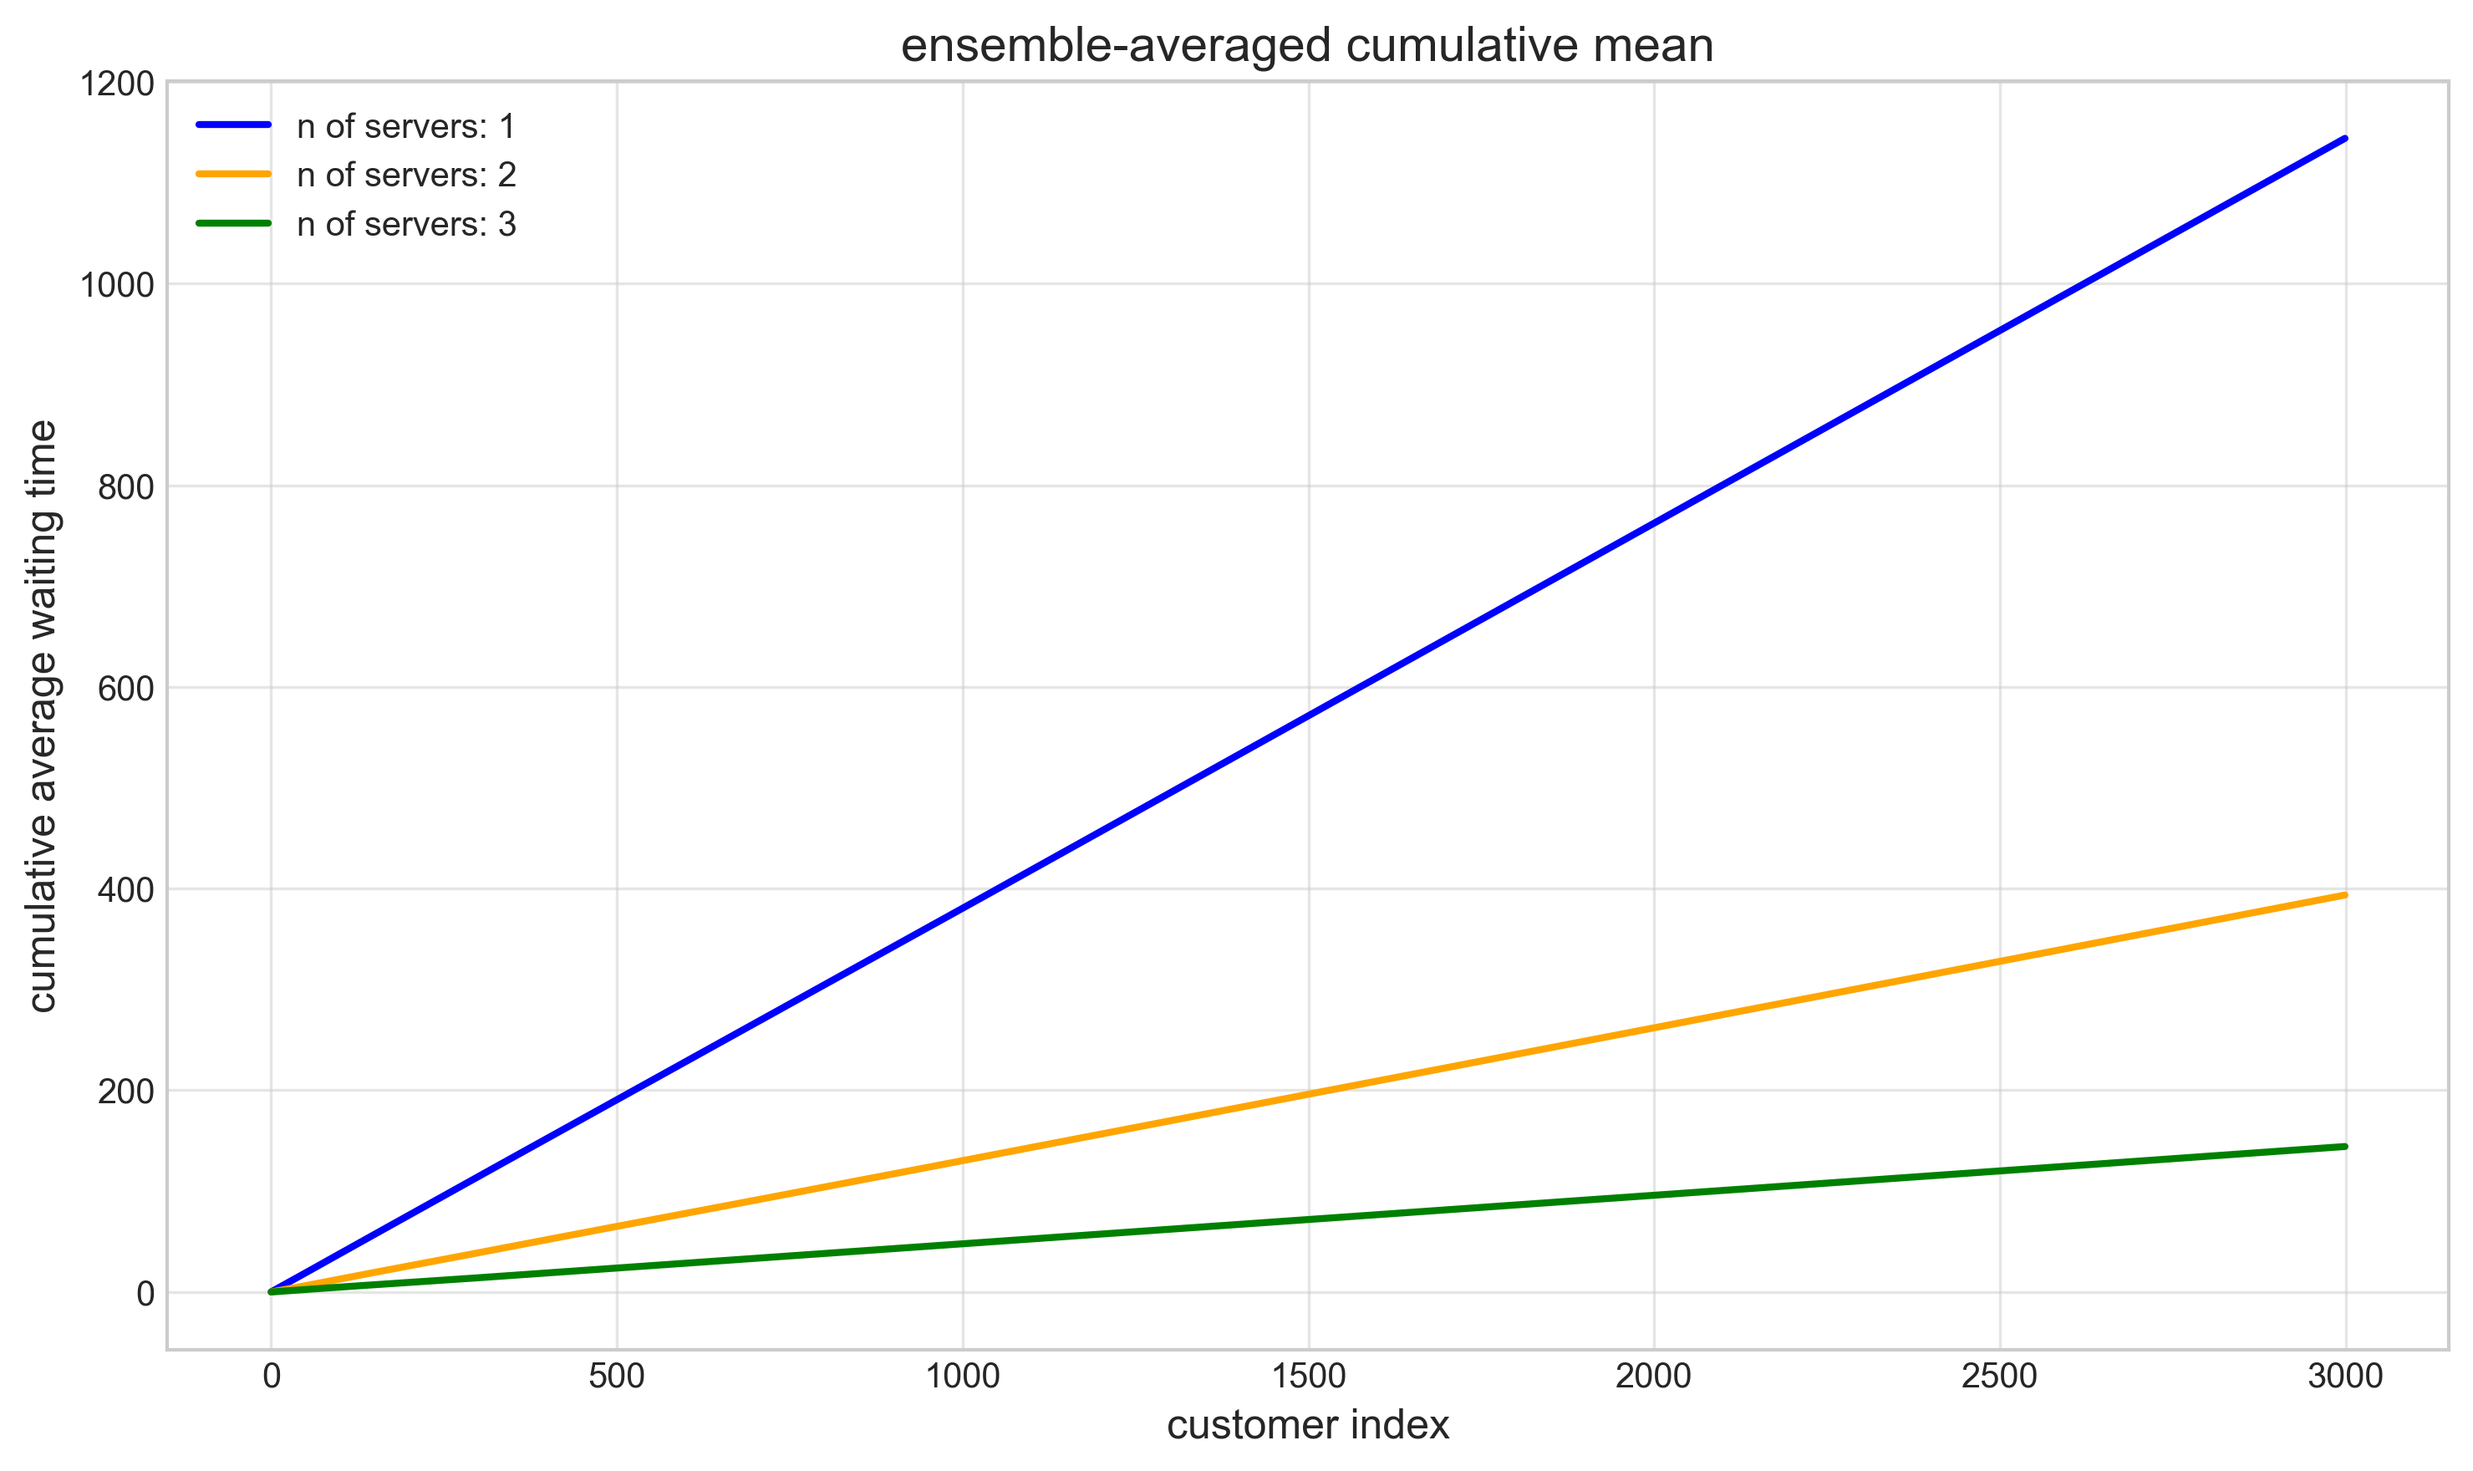
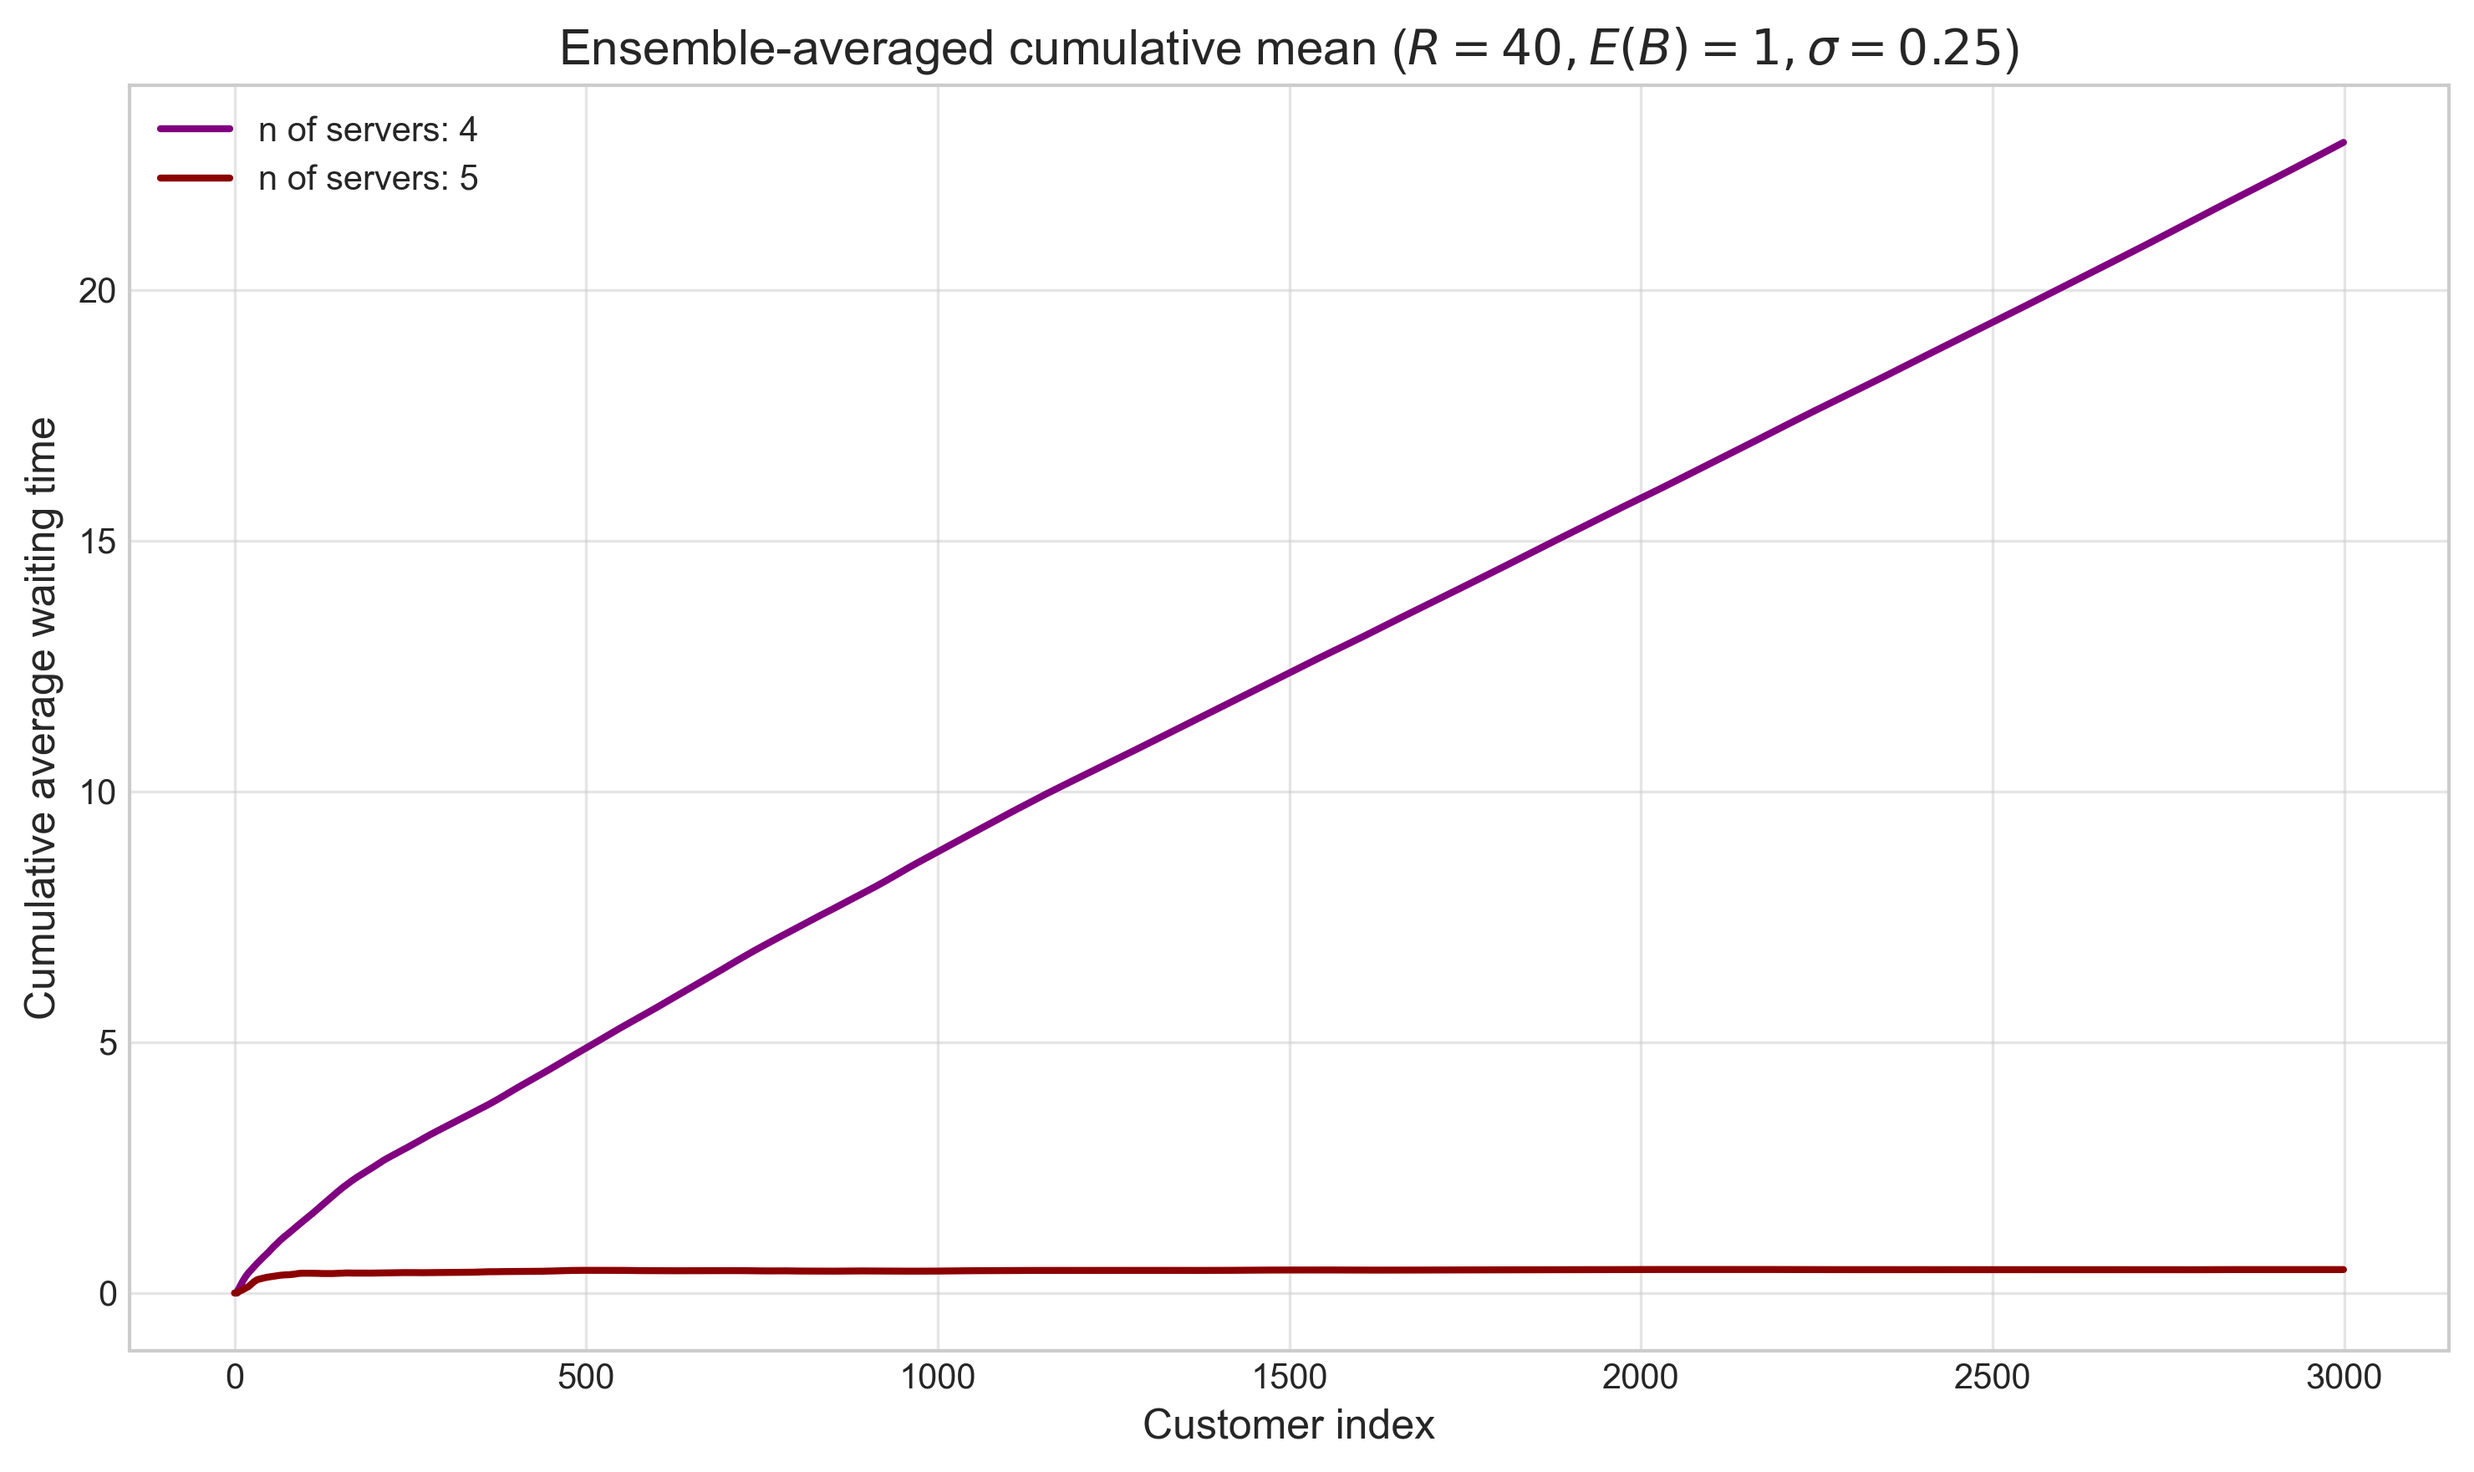
small changes to plots

diff --git a/assignment_2/main.py b/assignment_2/main.py
@@ -549,6 +549,7 @@ def plot3D_std_mean_sweep(
                 st_mean=mu,
                 verbose=False,
                 n_customers=n_customers,
+                n_customers=n_customers,
                 num_servers=num_servers,
                 num_replications=num_replications,
                 warm_up=0,
@@ -559,8 +560,8 @@ def plot3D_std_mean_sweep(
     ax = fig.add_subplot(111, projection="3d")
     X, Y = np.meshgrid(mu_range, std_range)
     surf = ax.plot_surface(
-        Y,
         X,
+        Y,
         mean_wt_matrix,
         cmap="viridis",
         edgecolor="k",
@@ -656,10 +657,10 @@ def run_Q2A(df):
     print("------------Q2A  RESULTS------------")
     print(f"Mean passengers passed: {np.mean(passengers_passed):.0f}")
     print(
-        f"Mean waiting time: {mean_waiting_time:.2f} minutes,\n"
-        f"Standard deviation: {std_waiting_time:.2f} minutes"
+        f"Mean waiting time: {mean_waiting_time:.3f} minutes,\n"
+        f"Standard deviation: {std_waiting_time:.3f} minutes"
     )
-    print(f"Theoretical steady-state: {theoretical_wt:.3f}")
+    print(f"Theoretical steady-state: {theoretical_wt:.3f} minutes")
     print(
         "Not reject H0:",
         two_sides_test(
@@ -914,7 +915,6 @@ def plot_hourly_arrivals():
             f"{height:.1f}",  # text
             ha="center",
             va="center",
-            color="darkblue",
             fontsize=6,
             alpha=0.6,
         )
@@ -957,9 +957,13 @@ def plot_hourly_arrivals():
         ]
     )
     axs.tick_params(axis="x", rotation=45, labelsize=8)
+    axs.grid(False)
+    axs2.grid(False)
+    axs3.grid(False)
 
     plt.suptitle("Hourly Arrival Rate and Mean Waiting Time (2 Servers)")
     plt.tight_layout(pad=1.2)
+
     plt.savefig(
         "assignment_2/img/arrival_rate_vs_waiting_time.png",
         dpi=300,
@@ -1015,9 +1019,11 @@ def plot_nservers_cumavg(
     if warm_up:
         plt.axvline(x=warm_up, color="red", label="warm up", ls="--")
 
-    plt.xlabel("customer index")
-    plt.ylabel("cumulative average waiting time")
-    plt.title("ensemble-averaged cumulative mean")
+    plt.xlabel("Customer index")
+    plt.ylabel("Cumulative average waiting time")
+    plt.title(
+        rf"Ensemble-averaged cumulative mean ($R={num_replications}, E(B)=1, \sigma={st_std:.2f}$)"
+    )
     plt.grid(alpha=0.5)
     plt.tight_layout(pad=1.2)
     plt.legend()
@@ -1034,7 +1040,7 @@ def plot_nservers_cumavg(
 def save_warm_up(path: str, arrival_rate: float):
 
     warm_ups = range(0, 1001, 100)
-    R = 40
+    R = 1000
 
     stats_collector = []
     for warm_up in warm_ups:
@@ -1054,10 +1060,10 @@ def main():
     Q1 = True
     Q2A = False
     WARM_UP_SWEEP = False
-    Q2B = True
+    Q2B = False
     HOURLY_ARRIVALS = False
     PLOT_STD_SWEEP = False
-    PLOT_3D_MEAN_STD_SWEEP = False
+    PLOT_3D_MEAN_STD_SWEEP = True
 
     if Q1:
         print(
@@ -1074,7 +1080,7 @@ def main():
         run_2D_std_sweep(df)
 
     if WARM_UP_SWEEP:
-        compute_warm_up = False
+        compute_warm_up = True
 
         path = "assignment_2/data/warm_up_sweep.npy"
         utilization = 0.85
